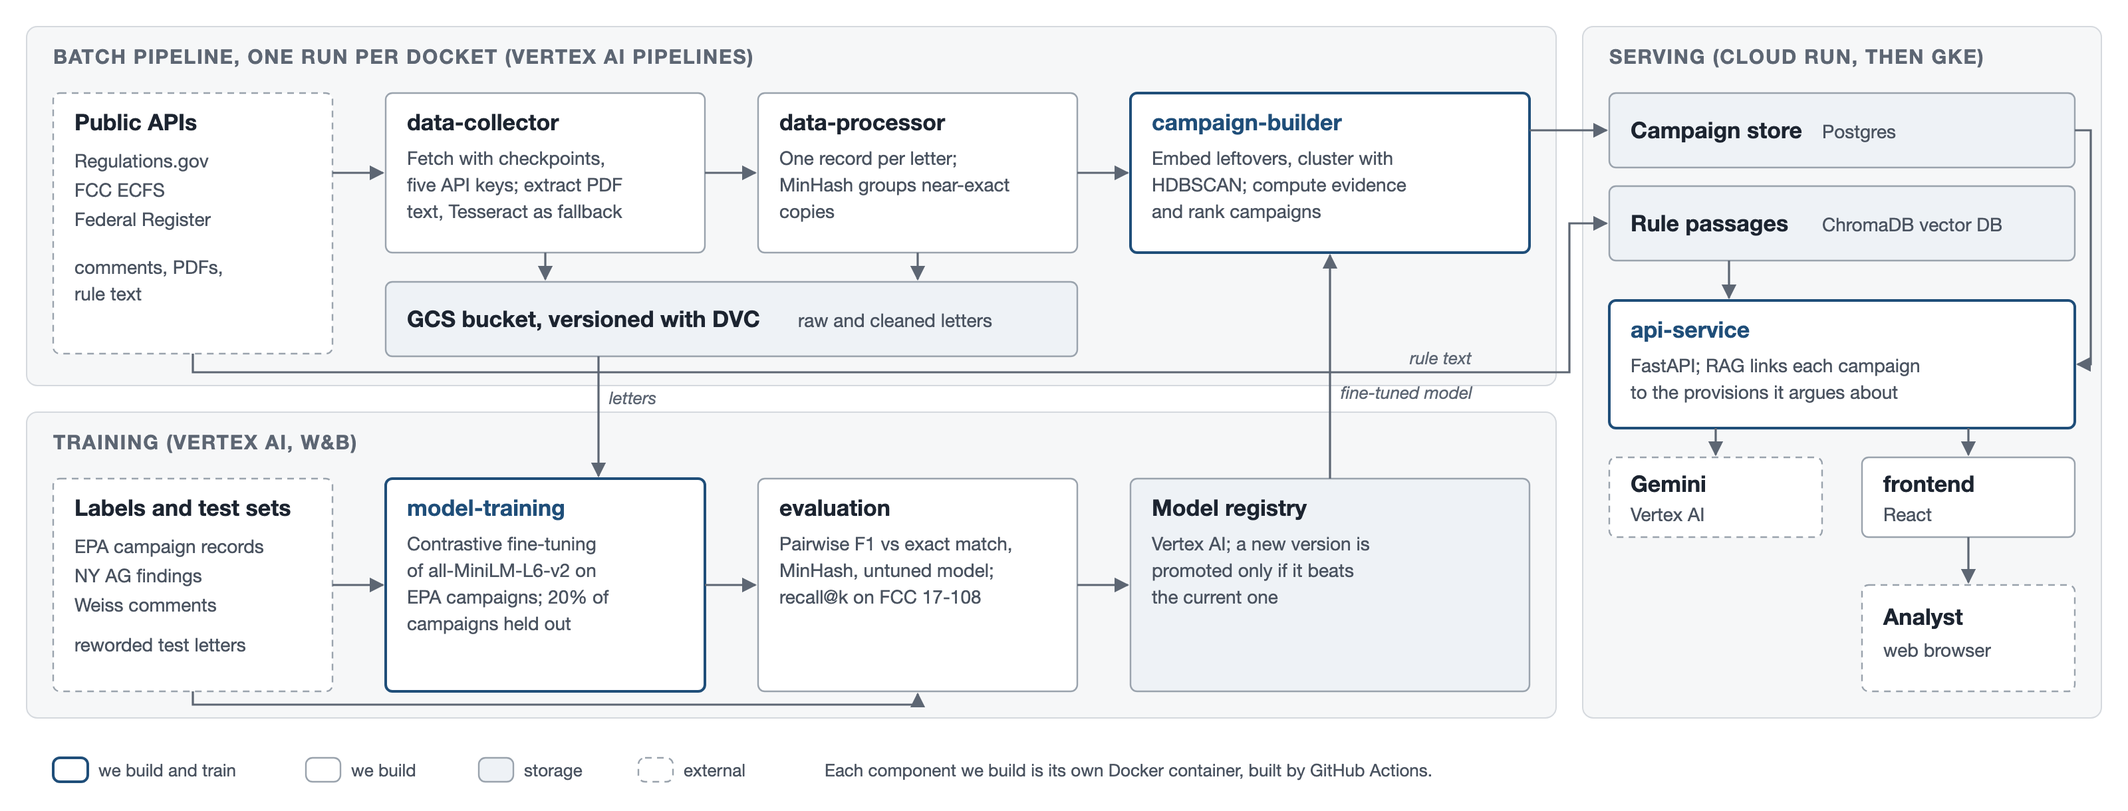
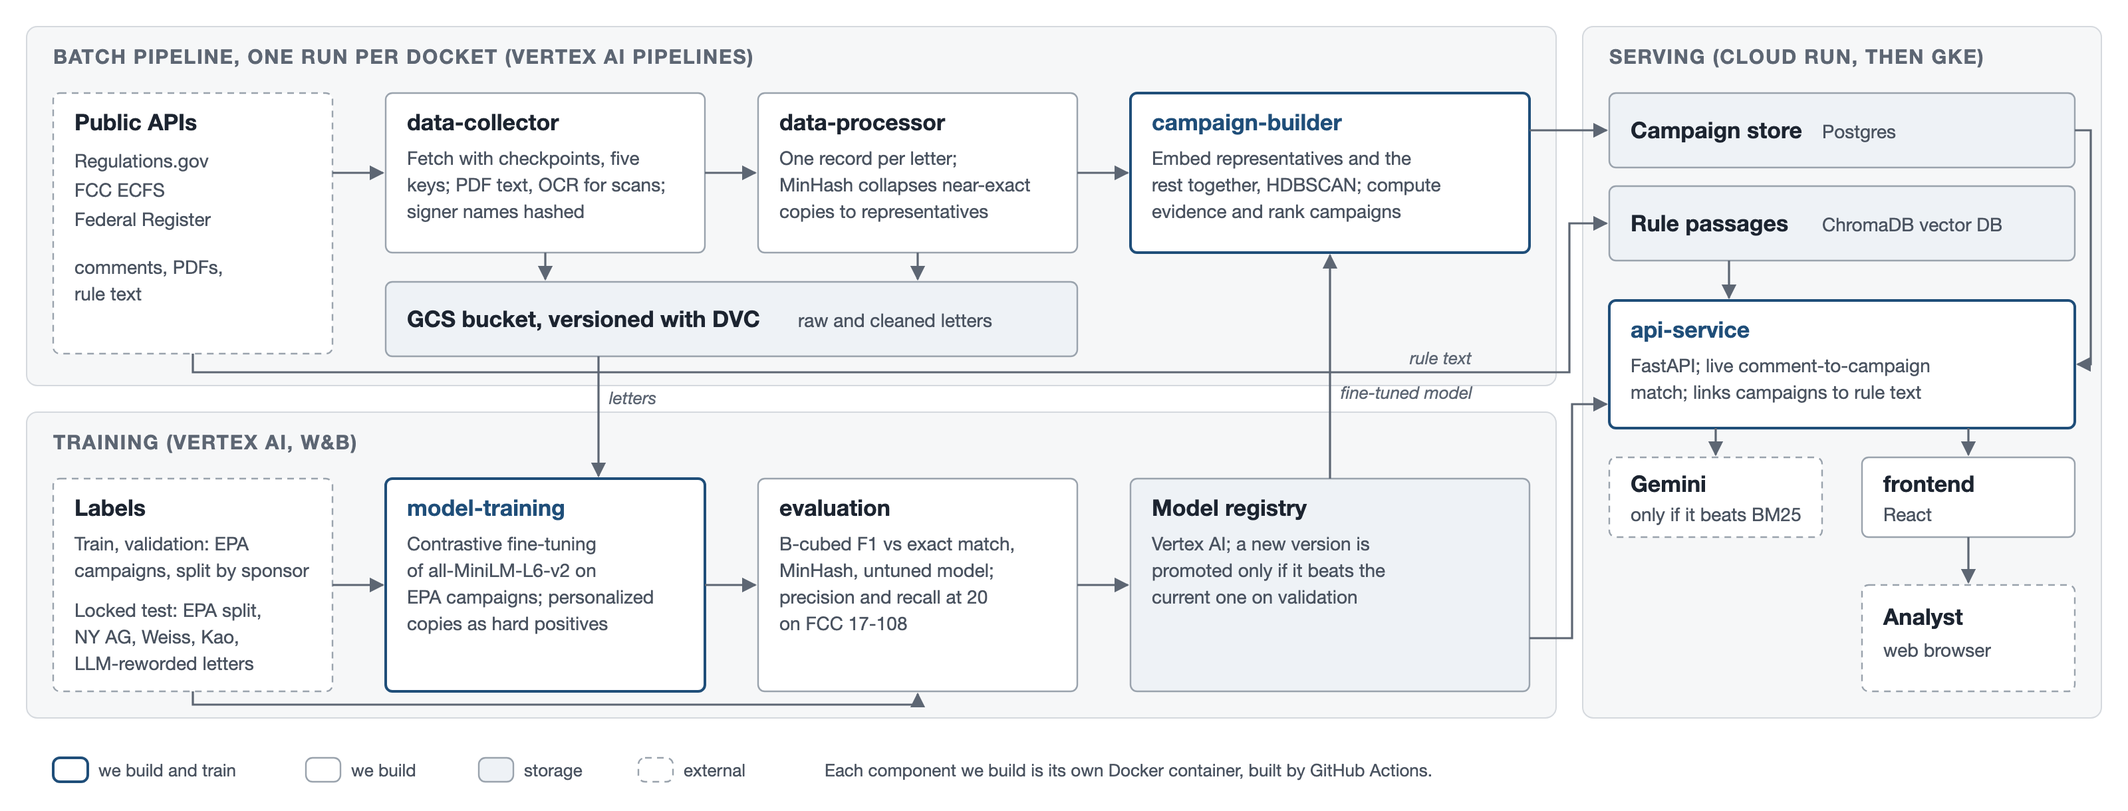
Revise Milestone 1 after review: data units, campaign definition, splits, metrics, scaling, PII

diff --git a/docs/architecture.html b/docs/architecture.html
@@ -50,23 +50,23 @@
   <!-- data-collector -->
   <rect class="box" x="290" y="70" width="240" height="120"/>
   <text class="t" x="306" y="98">data-collector</text>
-  <text class="s" x="306" y="124">Fetch with checkpoints,</text>
-  <text class="s" x="306" y="144">five API keys; extract PDF</text>
-  <text class="s" x="306" y="164">text, Tesseract as fallback</text>
+  <text class="s" x="306" y="124">Fetch with checkpoints, five</text>
+  <text class="s" x="306" y="144">keys; PDF text, OCR for scans;</text>
+  <text class="s" x="306" y="164">signer names hashed</text>
 
   <!-- data-processor -->
   <rect class="box" x="570" y="70" width="240" height="120"/>
   <text class="t" x="586" y="98">data-processor</text>
   <text class="s" x="586" y="124">One record per letter;</text>
-  <text class="s" x="586" y="144">MinHash groups near-exact</text>
-  <text class="s" x="586" y="164">copies</text>
+  <text class="s" x="586" y="144">MinHash collapses near-exact</text>
+  <text class="s" x="586" y="164">copies to representatives</text>
 
   <!-- campaign-builder -->
   <rect class="ours" x="850" y="70" width="300" height="120"/>
   <text class="tb" x="866" y="98">campaign-builder</text>
-  <text class="s" x="866" y="124">Embed leftovers, cluster with</text>
-  <text class="s" x="866" y="144">HDBSCAN; compute evidence</text>
-  <text class="s" x="866" y="164">and rank campaigns</text>
+  <text class="s" x="866" y="124">Embed representatives and the</text>
+  <text class="s" x="866" y="144">rest together, HDBSCAN; compute</text>
+  <text class="s" x="866" y="164">evidence and rank campaigns</text>
 
   <!-- GCS + DVC -->
   <rect class="store" x="290" y="212" width="520" height="56"/>
@@ -75,30 +75,32 @@
 
   <!-- Training band -->
   <rect class="ext" x="40" y="360" width="210" height="160"/>
-  <text class="t" x="56" y="388">Labels and test sets</text>
-  <text class="s" x="56" y="416">EPA campaign records</text>
-  <text class="s" x="56" y="438">NY AG findings</text>
-  <text class="s" x="56" y="460">Weiss comments</text>
-  <text class="s" x="56" y="490">reworded test letters</text>
+  <text class="t" x="56" y="388">Labels</text>
+  <text class="s" x="56" y="414">Train, validation: EPA</text>
+  <text class="s" x="56" y="434">campaigns, split by sponsor</text>
+  <text class="s" x="56" y="464">Locked test: EPA split,</text>
+  <text class="s" x="56" y="484">NY AG, Weiss, Kao,</text>
+  <text class="s" x="56" y="504">LLM-reworded letters</text>
 
   <rect class="ours" x="290" y="360" width="240" height="160"/>
   <text class="tb" x="306" y="388">model-training</text>
   <text class="s" x="306" y="414">Contrastive fine-tuning</text>
   <text class="s" x="306" y="434">of all-MiniLM-L6-v2 on</text>
-  <text class="s" x="306" y="454">EPA campaigns; 20% of</text>
-  <text class="s" x="306" y="474">campaigns held out</text>
+  <text class="s" x="306" y="454">EPA campaigns; personalized</text>
+  <text class="s" x="306" y="474">copies as hard positives</text>
 
   <rect class="box" x="570" y="360" width="240" height="160"/>
   <text class="t" x="586" y="388">evaluation</text>
-  <text class="s" x="586" y="414">Pairwise F1 vs exact match,</text>
+  <text class="s" x="586" y="414">B-cubed F1 vs exact match,</text>
   <text class="s" x="586" y="434">MinHash, untuned model;</text>
-  <text class="s" x="586" y="454">recall@k on FCC 17-108</text>
+  <text class="s" x="586" y="454">precision and recall at 20</text>
+  <text class="s" x="586" y="474">on FCC 17-108</text>
 
   <rect class="store" x="850" y="360" width="300" height="160"/>
   <text class="t" x="866" y="388">Model registry</text>
   <text class="s" x="866" y="414">Vertex AI; a new version is</text>
-  <text class="s" x="866" y="434">promoted only if it beats</text>
-  <text class="s" x="866" y="454">the current one</text>
+  <text class="s" x="866" y="434">promoted only if it beats the</text>
+  <text class="s" x="866" y="454">current one on validation</text>
 
   <!-- Serving -->
   <rect class="store" x="1210" y="70" width="350" height="56"/>
@@ -110,12 +112,12 @@
 
   <rect class="ours" x="1210" y="226" width="350" height="96"/>
   <text class="tb" x="1226" y="254">api-service</text>
-  <text class="s" x="1226" y="280">FastAPI; RAG links each campaign</text>
-  <text class="s" x="1226" y="300">to the provisions it argues about</text>
+  <text class="s" x="1226" y="280">FastAPI; live comment-to-campaign</text>
+  <text class="s" x="1226" y="300">match; links campaigns to rule text</text>
 
   <rect class="ext" x="1210" y="344" width="160" height="60"/>
   <text class="t" x="1226" y="370">Gemini</text>
-  <text class="s" x="1226" y="392">Vertex AI</text>
+  <text class="s" x="1226" y="392">only if it beats BM25</text>
 
   <rect class="box" x="1400" y="344" width="160" height="60"/>
   <text class="t" x="1416" y="370">frontend</text>
@@ -141,6 +143,7 @@
   <path class="a" d="M810,440 L848,440"/>
   <path class="a" d="M145,520 L145,530 L690,530 L690,522"/>
   <path class="a" d="M1000,360 L1000,192"/>
+  <path class="a" d="M1150,480 L1182,480 L1182,304 L1208,304"/>
   <text class="lab" x="1008" y="300">fine-tuned model</text>
   <path class="a" d="M450,268 L450,358"/>
   <text class="lab" x="458" y="304">letters</text>

diff --git a/milestone1.tex b/milestone1.tex
@@ -1,4 +1,4 @@
-% Quorum, AC215 Milestone 1 statement of work. PDF to Canvas by 9:00 PM, 29 Sep. Target 2 pages.
+% Quorum, AC215 Milestone 1 statement of work. PDF to Canvas by 9:00 PM, 29 Sep. Limit 3 pages.
 % Dev docket numbers measured against the Regulations.gov API, 20 and 27 Sep 2026.
 
 \documentclass[10pt]{article}
@@ -10,6 +10,7 @@
 \usepackage{graphicx}
 \usepackage{enumitem}
 \usepackage{xcolor}
+\usepackage{xurl}
 \usepackage[colorlinks=true,allcolors=blue!60!black]{hyperref}
 \usepackage{titlesec}
 
@@ -41,13 +42,18 @@ That is normal when real people send the letter. It is fraud when the names are 
 arrival the two look the same. New York's Attorney General found that about 18 million of the 22
 million comments on the FCC's 2017 net neutrality repeal were fake, four years after the fact [4].
 
-Agencies do group form letters, by hand. On our development docket, EPA's 2019 ``waters of the United
-States'' rule, staff filed 507{,}230 comments under 201 campaign records and listed no sponsor for 92
-of them. Near-duplicate detection finds copies [1] but not reworded ones, and the 1.3 million likely
-fake FCC comments Kao found were all reworded [2]. No existing tool says who is behind a campaign or
-whether its signers are real. The people who need that are agency staff answering the record,
-journalists and attorneys general auditing it, and advocacy groups whose genuine campaigns get written
-off alongside fake ones. We came to the problem through Kao's analysis [2] and the NY AG report [4].
+The closest existing practice is what the Administrative Conference of the United States recommended
+in 2021: post one representative letter per campaign with a count of copies [5]. EPA did exactly that
+on our development docket, its 2019 ``waters of the United States'' rule, filing 507{,}230 comments
+under 201 campaign records and listing the sponsor as unknown for 92 of them. Near-duplicate detection
+automates grouping for exact copies [1] but not for reworded ones, and the 1.3 million likely fake FCC
+comments Kao found were all reworded from one template [2]. Kao's embedding analysis was a one-off
+study of one docket. None of these tell an analyst who is behind a campaign or whether its signers
+look real, so genuine campaigns get written off alongside fake ones and fraud surfaces years later.
+
+Our primary user is the agency analyst who has to summarize and answer the comment record.
+Journalists and attorneys general who audit the record, and advocacy groups whose real members get
+discounted, benefit as well. Kao's analysis [2] and the NY AG report [4] drew us to the problem.
 
 \section{Problem Statement}
 
@@ -58,105 +64,138 @@ and the evidence on whether real people sent it, without labelling any individua
 
 \begin{itemize}
   \item \textbf{Source.} Public APIs of Regulations.gov, the FCC's Electronic Comment Filing System
-        (ECFS) and the Federal Register (rule text). Known fakes from the NY AG report [4] and
-        Weiss's 1{,}001 machine-written comments [3].
-  \item \textbf{Description.} Comment text with receipt dates and PDF attachments. The development
-        docket has 11{,}444 records, 201 of them campaigns standing for 507{,}230 comments
-        (\texttt{EPA-HQ-OW-2018-0149}). Validation docket FCC 17-108 has 23{,}982{,}072 filings.
-  \item \textbf{Key attributes.} Text, receipt date, campaign copy count and sponsor, and each
-        signer's name, city and ZIP from campaign PDFs. ECFS adds filer name and address.
-  \item \textbf{Relevance.} EPA's campaign records are free training and test labels. Signer details
-        show whether a campaign's senders look real. The NY AG named which FCC 17-108 campaigns were
-        fake, so we validate there.
-  \item \textbf{Data quality concerns.} One API call per comment takes 11.4 hours per key for the
-        development docket, so we use five keys. 106 campaigns attach only a sample letter, so their
-        signers cannot be checked. Dates have no time of day. All 13 PDFs we sampled have
-        machine-readable text, so OCR is a fallback.
+        (ECFS) and the Federal Register. Known fakes from the NY AG report [4] and Weiss's public
+        dataset of 1{,}001 bot comments with matching human comments [3].
+  \item \textbf{Description.} We use four units. A \emph{record} is one Regulations.gov posting, a
+        \emph{comment} is one person's submission, a \emph{letter} is a comment whose full text we
+        have, and a \emph{signer} is a name, city and ZIP in a campaign's signer list. The development
+        docket (\texttt{EPA-HQ-OW-2018-0149}) has 11{,}444 records standing for 518{,}473 comments:
+        11{,}243 individual comments and 201 campaign records covering 507{,}230 more. Of those
+        campaigns, 13 attach every letter (about 116{,}000), 8 attach a signer list or spreadsheet
+        (295{,}647 comments) and 180 attach one sample letter or nothing. FCC 17-108 lists 23{,}982{,}072
+        filings, of which Kao estimated fewer than 800{,}000 are distinct texts [2].
+  \item \textbf{Key attributes.} Letter text, receipt date, sponsor and copy count per campaign, and
+        signer name, city and ZIP. ECFS adds filer name, address and timestamp.
+  \item \textbf{Relevance.} EPA's grouping labels about 116{,}000 letters with their campaign, and the
+        copies are not all identical: in six of the full campaigns, 1{,}955 letters differ from their
+        template by more than 10\% in length because senders added their own words. Signer lists let
+        us check whether a campaign's senders look real. The NY AG findings say which FCC campaigns
+        were fake, so FCC 17-108 is our external test.
+  \item \textbf{Data quality concerns.} Fetching one comment takes one API call, 11.4 hours per key for
+        the development docket, so we use five keys and start the FCC bulk download in October.
+        180 campaigns have no copies to analyze, so we use only their counts. Receipt dates have no
+        time of day. Four campaign PDFs are scans, so OCR is needed only there. Signer lists are personal
+        data, so names are hashed at ingestion and only campaign-level totals are ever shown.
 \end{itemize}
 
 \section{Scope and Objectives}
 
-One Regulations.gov docket end to end, with FCC 17-108 for validation. The central challenge is that
-almost nothing is labelled fake, and labelling people ourselves risks the harm we want to avoid. We
-use existing labels (EPA's grouping, the NY AG findings, Weiss's comments) and reworded letters we
-generate. We reuse an open embedding model, HDBSCAN and a hosted LLM, and build the rest (architecture in the appendix).
+One Regulations.gov docket end to end, with FCC 17-108 used only for external validation. We define a
+campaign as comments sharing a template and a sponsor. EPA's grouping follows templates, so it is our
+label, and where one sponsor runs two templates or two sponsors share one, we report the case rather
+than force it. The central challenge is that almost nothing is labelled fake, and labelling people
+ourselves would risk the harm we want to avoid. We train only on EPA's grouping and keep the NY AG
+findings, Weiss's comments and Kao's cluster untouched until final evaluation. We reuse an open
+embedding model, HDBSCAN, BM25 and a hosted LLM, and build the rest (architecture in Appendix B).
 
 \begin{enumerate}[leftmargin=1.4em]
-  \item \textbf{Ingest} comments and campaign PDFs into one record per letter.
-  \item \textbf{Group} letters with MinHash [1], a fast estimate of word overlap that catches
-        near-exact copies. The rest become vectors (\emph{embeddings}) clustered with HDBSCAN, which
-        finds groups of any size and leaves outliers out.
-  \item \textbf{Fine-tune our own embedding model.} Stock embeddings miss reworded copies, so we
-        fine-tune the open model \texttt{all-MiniLM-L6-v2} with a contrastive loss that pulls letters from the same
-        EPA campaign together and pushes other campaigns apart, using the 95 campaigns not marked as
-        samples (up to 441{,}802 letters) and holding out 20\% of campaigns for testing.
-  \item \textbf{Characterize} each campaign by size, arrival by day, how copies differ (added text
-        or swapped words), the sponsor named in its attachments, and signer checks such as a ZIP that
-        does not match the city. Campaigns furthest from the docket's typical profile rank first.
-  \item \textbf{Link} each campaign to the provisions it argues about. RAG (retrieval-augmented
-        generation) finds the closest passages of the rule, and an LLM names the provision.
+  \item \textbf{Ingest} comments, attachments and signer lists into one record per letter.
+  \item \textbf{Group.} MinHash [1], a fast estimate of word overlap, collapses near-exact copies to one
+        representative each. Representatives and all remaining letters are then embedded and clustered
+        together with HDBSCAN, so a reworded letter joins the group of its template. At FCC scale this
+        runs on distinct texts, not on 24 million filings.
+  \item \textbf{Fine-tune our own embedding model.} We fine-tune \texttt{all-MiniLM-L6-v2} with a
+        contrastive loss that pulls letters from the same EPA campaign together and pushes other
+        campaigns apart, using the personalized copies as hard positives. Campaigns are split
+        60/20/20 into train, validation and test by sponsor, so no sponsor's text appears on both
+        sides, and the test split stays locked until the end.
+  \item \textbf{Characterize} each campaign by size, the share of comments arriving on its busiest day,
+        the share of copies with personal text, whether a sponsor is named in its attachments, and
+        signer checks: ZIP codes outside the stated state, names that also sign other campaigns, and
+        claimed versus listed signer counts. Each feature is measured in median absolute deviations
+        from the docket's median, and campaigns with the largest total rank first for review.
+  \item \textbf{Link} each campaign to the rule sections it argues about. BM25 keyword retrieval over
+        Federal Register sections is the baseline, then embedding retrieval, and an LLM is added only
+        if it beats both.
+  \item \textbf{Serve} a dashboard and one live endpoint: paste a comment and get its closest campaign
+        and similarity from the fine-tuned model.
 \end{enumerate}
 
-\textbf{Success.} \emph{Pairwise F1} against EPA's grouping, where precision is the share of letter
-pairs we group that EPA also grouped and recall is the share of EPA's pairs we find. Target 0.95 on
-held-out campaigns, above exact matching, MinHash and the untuned model, including on letters reworded
-at five strengths. On FCC 17-108, \emph{recall@k}, the share of the NY AG's fake campaigns in our
-top $k$. For an analyst, every campaign and its evidence on one screen instead of keyword search.
+\textbf{Success.} Grouping is scored with \emph{B-cubed F1}, which averages precision and recall over
+letters so that the largest campaigns do not dominate. We report it on all letters and separately on
+personalized and reworded letters, against exact matching, MinHash and the untuned model. Reworded
+test letters come from an LLM never used in training, at five strengths (20\% to 100\% of sentences
+rewritten). The fine-tuned model must beat MinHash on reworded letters at every strength without
+losing ground on exact copies. On FCC 17-108, with a review budget of 20 campaigns, we report
+precision and recall of the NY AG's fake campaigns and list every false positive. Sponsor evidence
+is audited by hand on the 92 unknown-sponsor campaigns, and provision links by top-1 accuracy on 50
+hand-mapped campaigns. For the analyst, success is every campaign and its evidence on one screen
+instead of keyword search.
 
 \section{Minimum Components}
 
-\textbf{Large, heterogeneous data.} Half a million letters from two APIs, in text, HTML and PDF.
-\textbf{Scalability.} FCC 17-108 has 24 million filings, so every step streams its input.
-\textbf{Complex model.} The fine-tuned embedding model, trained on Vertex AI and retrained per docket.
+\textbf{Large, heterogeneous data.} Half a million EPA comments and 24 million FCC filings from three
+APIs, in text, HTML, PDF, spreadsheets and scans. \textbf{Scalability.} Grouping works on distinct texts, so FCC 17-108 shrinks
+from 24 million filings to under a million; the API is stateless and scales with users on Cloud Run,
+then GKE. \textbf{Complex model.} The fine-tuned embedding model, trained on Vertex AI and retrained
+when a new docket arrives with agency campaign records.
 
 \section{Learning Emphasis}
 
 From the course, fine-tuning, RAG with a vector database, containers and Vertex AI. From outside it,
-MinHash, density clustering and evaluation with few labels.
+MinHash, density clustering and clustering evaluation without clean labels.
 
 \section{Application Mock Design}
 
-Real records from our development docket. We built screen 3 by hand from one campaign's PDFs; the
-pipeline will do it for every campaign.
-
-\begin{center}
-\includegraphics[width=0.9\textwidth]{docs/mock.png}
-\end{center}
+Appendix A shows three screens filled in with real records from our development docket. We built
+screen 3 by hand from one campaign's PDFs, and the pipeline will do it for every campaign.
 
 \section{Fun Factor}
 
-EPA lists no sponsor for 92 campaigns. The first one we opened (66{,}777 comments) was a CREDO Action
-petition.
+We get to answer, docket by docket, a question that took a state attorney general four years and
+subpoenas. The first unknown-sponsor campaign we opened (66{,}777 comments) turned out to be a CREDO
+Action petition whose cover letter claims 110 more signers than its signer file lists.
 
 \section{Limitations and Risks}
 
-Making a genuine campaign look fraudulent would harm the group and every real person who signed, so
-the app shows evidence about campaigns and never scores a person. The FCC labels cover few campaigns,
-so results there are case studies. The model would learn any mistakes in EPA's grouping, so we
-hand-check a sample. LLM-rewritten letters may escape grouping; the rewording test measures how often.
+Making a genuine campaign look fraudulent would harm the group and every real person who signed. The
+app scores campaigns, never people, shows the evidence behind every rank, and labels a sponsor as
+recorded by EPA or found in an attachment. The model would learn EPA's grouping mistakes, so we
+hand-check 200 letter pairs and adjudicate disagreements. The FCC labels cover few campaigns, so
+results there are case studies. Freely LLM-rewritten letters may still escape grouping, and the
+rewording test measures how often. If the full FCC download is not done by MS4, we validate on the
+campaigns the NY AG named plus a random sample of other filings.
 
 \section{Milestones}
 
-\textbf{Mid Oct (MS2).} Containers, DVC data versioning, RAG flow, MinHash baseline.
-\textbf{Mid Nov (MS3).} Fine-tuning on Vertex AI, grouping results, API on Cloud Run.
-\textbf{Early Dec (MS4).} Campaign evidence, FCC evaluation, frontend, CI and tests.
-\textbf{Mid Dec (MS5).} Kubernetes, automated retraining, video and blog post.
+\textbf{MS2 (20 Oct).} Containerized ingestion with DVC, FCC download started, MinHash and untuned
+baselines with first B-cubed scores, BM25 provision baseline, app skeleton.
+\textbf{MS3 (12 Nov).} Fine-tuning on Vertex AI with W\&B, Vertex pipeline, campaign evidence, live
+API on Cloud Run with monitoring.
+\textbf{MS4 (1 Dec).} Frontend, CI and tests, FCC evaluation, sponsor audit.
+\textbf{MS5 (11 Dec, showcase 10 Dec).} GKE scaling, automated retraining, video and blog post.
 
 \section{Research and Development}
 
 {\footnotesize
-[1] Yang, Callan and Shulman, \href{https://www.cs.cmu.edu/~callan/Papers/dgo06-huiyang.pdf}{Next steps in near-duplicate detection for eRulemaking}, dg.o 2006.
-[2] Kao, \href{https://hackernoon.com/more-than-a-million-pro-repeal-net-neutrality-comments-were-likely-faked-e9f0e3ed36a6}{More than a million pro-repeal net neutrality comments were likely faked}, 2017.
-[3] Weiss, \href{https://techscience.org/a/2019121801/}{Deepfake bot submissions to federal public comment websites cannot be distinguished from human submissions}, \emph{Technology Science}, 2019.
-[4] New York Attorney General, \href{https://ag.ny.gov/press-release/2021/attorney-general-james-issues-report-detailing-millions-fake-comments-revealing}{report on fake comments in the FCC's 2017 net neutrality proceeding}, 2021.
+[1] H. Yang, J. Callan, S. Shulman. Next steps in near-duplicate detection for eRulemaking. dg.o 2006. \url{https://www.cs.cmu.edu/~callan/Papers/dgo06-huiyang.pdf}\par
+[2] J. Kao. More than a million pro-repeal net neutrality comments were likely faked. 2017. \url{https://hackernoon.com/more-than-a-million-pro-repeal-net-neutrality-comments-were-likely-faked-e9f0e3ed36a6}\par
+[3] M. Weiss. Deepfake bot submissions to federal public comment websites cannot be distinguished from human submissions. \emph{Technology Science}, 2019. \url{https://techscience.org/a/2019121801/}; data \url{https://doi.org/10.7910/DVN/OQCPOT}\par
+[4] New York State Office of the Attorney General. Fake comments report on the FCC's 2017 net neutrality proceeding. May 2021. \url{https://ag.ny.gov/press-release/2021/attorney-general-james-issues-report-detailing-millions-fake-comments-revealing}\par
+[5] S. Balla, B. Dooling, M. Herz, M. Livermore. Mass, computer-generated, and fraudulent comments. Report to the Administrative Conference of the United States, 2021. \url{https://www.acus.gov/research-projects/mass-computer-generated-and-fraudulent-comments}
 \par}
 
-\clearpage
-\section{Appendix: Preliminary Architecture}
+\section{Appendix A: Application Mock}
+
+\begin{center}
+\includegraphics[width=\textwidth]{docs/mock.png}
+\end{center}
+
+\section{Appendix B: Preliminary Architecture}
 
 A batch pipeline runs once per docket and writes campaigns to a store that the API serves. Training
-runs separately, and a new model replaces the current one only if it scores higher on held-out
-campaigns.
+runs separately, and a new model replaces the current one only if it scores higher on the validation
+split.
 
 \begin{center}
 \includegraphics[width=\textwidth]{docs/architecture.png}
